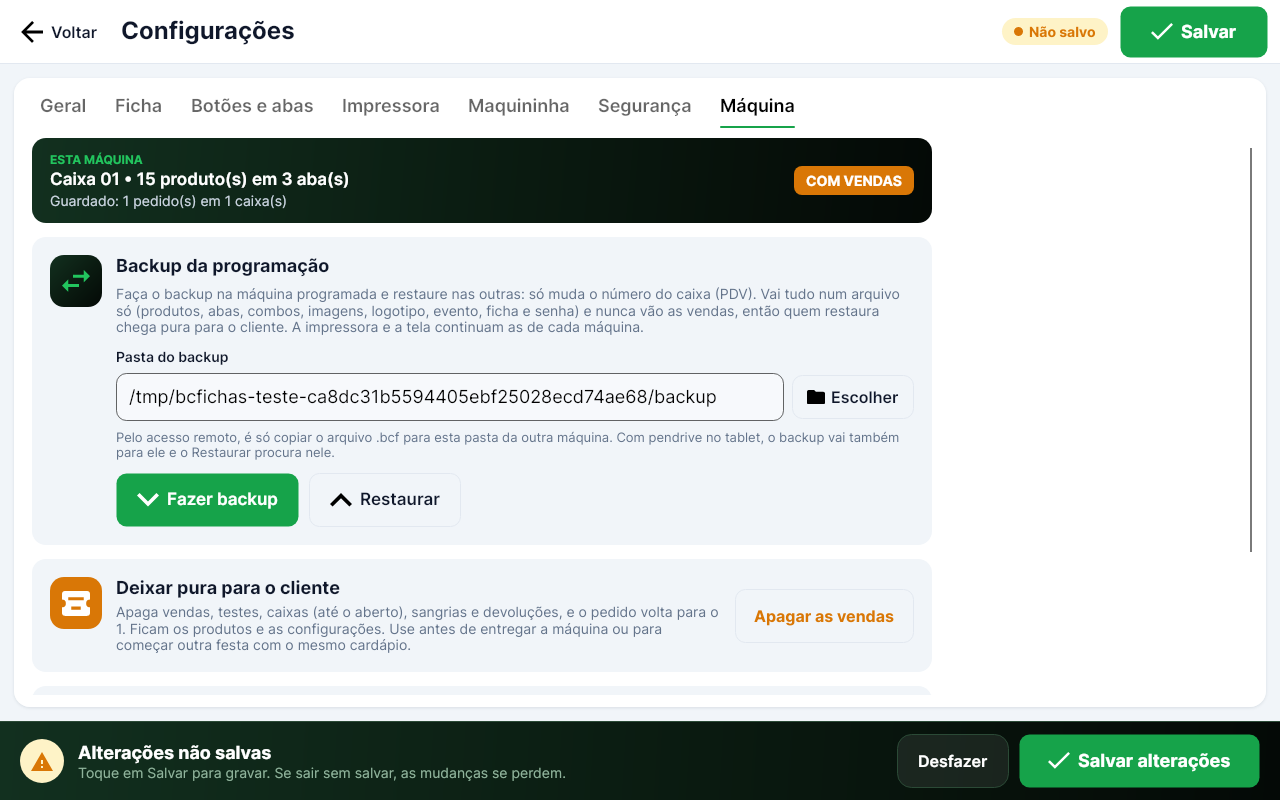
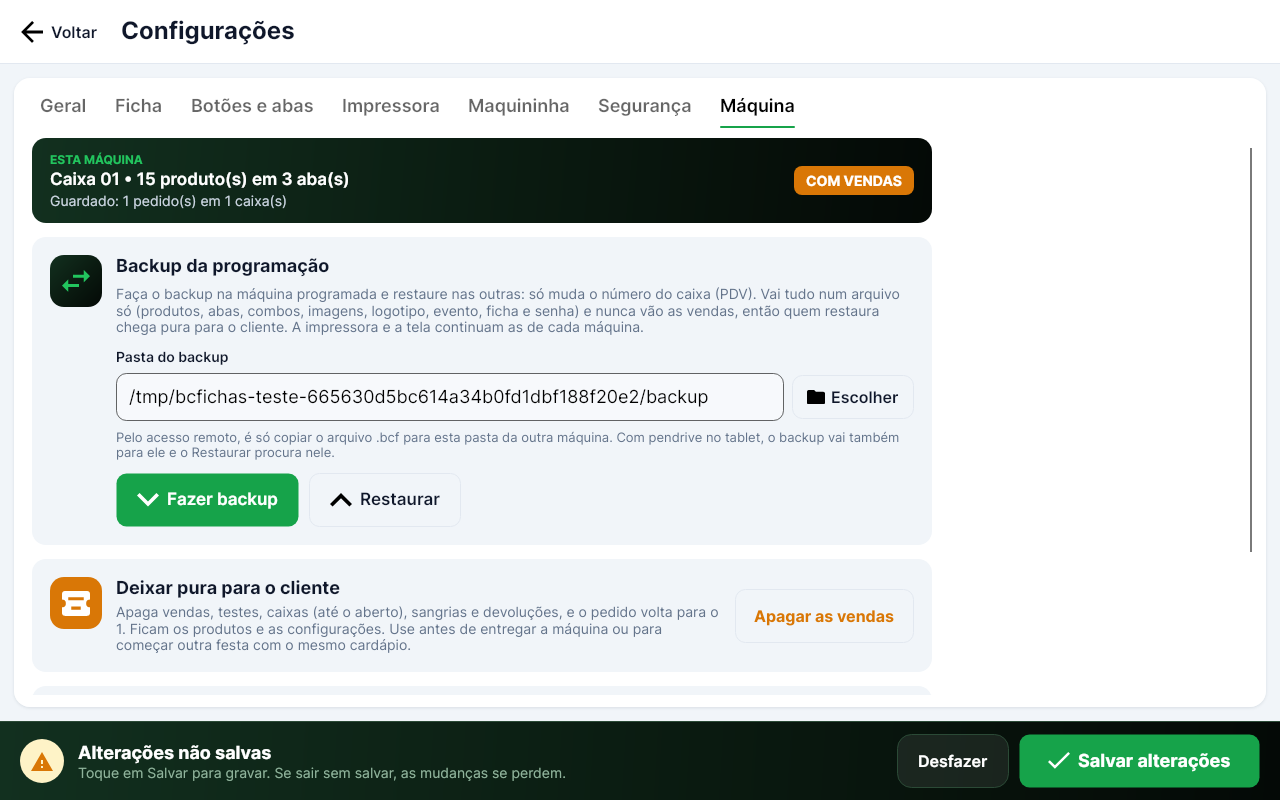
Versão 3.10.1: número do caixa com − e +, Salvar só na barra de baixo
- Configurações > Geral: o número do caixa (PDV) virou um seletor
  compacto − 01 + (tocar no número abre o teclado para digitar direto),
  com a pasta dos dados na mesma lista.
- Tira o Salvar e o aviso de "não salvo" do topo: a barra de baixo
  "Alterações não salvas" já aparece quando algo muda.
- Restaurar backup pede o número do caixa no mesmo limite (1 a 30).

Claude-Session: https://claude.ai/code/session_01PrUwZ2SHAkAtG8QPnZCrhE

Changed region(s): [[0.7812, 0.0, 1.0, 0.0938], [0.25, 0.4688, 0.5625, 0.5312]]

diff --git a/src/BCFichas.App/ViewModels/ConfiguracaoViewModel.cs b/src/BCFichas.App/ViewModels/ConfiguracaoViewModel.cs
@@ -101,7 +101,7 @@ public sealed partial class ConfiguracaoViewModel : PaginaViewModel
         new(Core.TipoImpressora.Arquivo, "Salvar em arquivo (testar sem impressora)"),
     ];
 
-    public List<int> Caixas { get; } = Enumerable.Range(1, 30).ToList();
+    public const int MaximoCaixas = 30;
     public List<int> Papeis { get; } = [80, 58];
     public List<int> Velocidades { get; } = [9600, 19200, 38400, 57600, 115200];
     public List<int> Zooms { get; } = [70, 80, 90, 100, 110, 125, 150];
@@ -123,7 +123,10 @@ public sealed partial class ConfiguracaoViewModel : PaginaViewModel
     // Geral
     [ObservableProperty] private string _nomeEvento = "";
     [ObservableProperty] private string _rodape = "";
-    [ObservableProperty] private int _numeroCaixa = 1;
+    [ObservableProperty]
+    [NotifyPropertyChangedFor(nameof(NumeroCaixaTexto), nameof(CaixaNaFicha))]
+    [NotifyCanExecuteChangedFor(nameof(CaixaAnteriorCommand), nameof(ProximoCaixaCommand))]
+    private int _numeroCaixa = 1;
     [ObservableProperty] private bool _desligarAoFechar;
     [ObservableProperty] private bool _manterTelaLigada;
     [ObservableProperty] private bool _iniciarComWindows;
@@ -562,6 +565,28 @@ public sealed partial class ConfiguracaoViewModel : PaginaViewModel
         return Core.Servicos.ProgramacaoServico.CaminhoDaPasta(texto);
     }
 
+    public string NumeroCaixaTexto => $"{NumeroCaixa:00}";
+    public string CaixaNaFicha => $"Sai na ficha e nos relatórios como CAIXA {NumeroCaixa:00}.";
+
+    private bool TemCaixaAnterior => NumeroCaixa > 1;
+    private bool TemProximoCaixa => NumeroCaixa < MaximoCaixas;
+
+    [RelayCommand(CanExecute = nameof(TemCaixaAnterior))]
+    private void CaixaAnterior() => NumeroCaixa--;
+
+    [RelayCommand(CanExecute = nameof(TemProximoCaixa))]
+    private void ProximoCaixa() => NumeroCaixa++;
+
+    /// <summary>Tocar no número: digita direto no teclado numérico (mais rápido que o + quando é o caixa 15).</summary>
+    [RelayCommand]
+    private async Task DigitarCaixa()
+    {
+        var numero = new NumeroViewModel(Principal, "Número deste caixa (PDV)",
+            "Cada máquina do evento tem um número diferente (sai na ficha e nos relatórios).", NumeroCaixa, MaximoCaixas);
+        Principal.AbrirDialogo(numero);
+        if (await numero.Resposta is { } caixa) NumeroCaixa = caixa;
+    }
+
     [RelayCommand]
     private void EscolherMaquininha(TipoMaquininha tipo) =>
         TipoMaquininha = TiposMaquininha.FirstOrDefault(t => t.Valor == tipo) ?? TipoMaquininha;
@@ -754,7 +779,8 @@ public sealed partial class ConfiguracaoViewModel : PaginaViewModel
             if (!await Principal.Confirmar("Restaurar este backup?", texto, "Restaurar", "Voltar")) return;
 
             var numero = new NumeroViewModel(Principal, "Número deste caixa (PDV)",
-                "Cada máquina do evento tem um número diferente (sai na ficha e nos relatórios).", Principal.Config.NumeroCaixa);
+                "Cada máquina do evento tem um número diferente (sai na ficha e nos relatórios).", Principal.Config.NumeroCaixa,
+                MaximoCaixas);
             Principal.AbrirDialogo(numero);
             if (await numero.Resposta is not { } caixa) return;
 

diff --git a/tests/BCFichas.Tests/Ui/TelasDaVersao310Tests.cs b/tests/BCFichas.Tests/Ui/TelasDaVersao310Tests.cs
@@ -182,6 +182,61 @@ public class TelasDaVersao310Tests
     }
 
     [AvaloniaFact]
+    public async Task Numero_do_caixa_com_menos_e_mais_e_salvar_so_na_barra_de_baixo()
+    {
+        using var t = new TelaDeTeste();
+        var tela = new ConfiguracaoViewModel(t.Principal);
+        t.Principal.Abrir(tela);
+        TelaDeTeste.Atualizar();
+        // Sem mudança, nenhum botão de salvar na tela (em cima não tem mais)
+        Assert.Empty(BotoesSalvar(t, tela));
+        Assert.Equal("01", tela.NumeroCaixaTexto);
+        Assert.False(tela.CaixaAnteriorCommand.CanExecute(null)); // não tem caixa 0
+
+        tela.ProximoCaixaCommand.Execute(null);
+        tela.ProximoCaixaCommand.Execute(null);
+        Assert.Equal(3, tela.NumeroCaixa);
+        Assert.Equal("Sai na ficha e nos relatórios como CAIXA 03.", tela.CaixaNaFicha);
+        tela.CaixaAnteriorCommand.Execute(null);
+        Assert.Equal("02", tela.NumeroCaixaTexto);
+        TelaDeTeste.Atualizar();
+        Assert.True(tela.TemAlteracoes);
+        var salvar = Assert.Single(BotoesSalvar(t, tela)); // só o da barra de baixo
+        Assert.True(salvar.TranslatePoint(new Point(0, 0), t.Janela)!.Value.Y > t.Janela.Bounds.Height / 2);
+
+        // Tocar no número abre o teclado para digitar direto
+        var digitar = tela.DigitarCaixaCommand.ExecuteAsync(null);
+        var numero = Assert.IsType<NumeroViewModel>(t.Principal.Dialogo);
+        numero.TeclaCommand.Execute("C");
+        numero.TeclaCommand.Execute("3");
+        numero.TeclaCommand.Execute("1");
+        numero.ConfirmarCommand.Execute(null);
+        Assert.Equal("Digite um número de 1 a 30", numero.Erro);
+        numero.TeclaCommand.Execute("<");
+        numero.TeclaCommand.Execute("<");
+        numero.TeclaCommand.Execute("1");
+        numero.TeclaCommand.Execute("5");
+        numero.ConfirmarCommand.Execute(null);
+        await digitar;
+        Assert.Equal(15, tela.NumeroCaixa);
+        TelaDeTeste.Atualizar();
+        t.Foto("56-config-numero-do-caixa");
+
+        salvar.Command!.Execute(null);
+        Assert.Equal(15, t.Sistema.Config.Atual.NumeroCaixa);
+        TelaDeTeste.Atualizar();
+        Assert.Empty(BotoesSalvar(t, tela));
+
+        // No último número o + para
+        tela.NumeroCaixa = ConfiguracaoViewModel.MaximoCaixas;
+        Assert.False(tela.ProximoCaixaCommand.CanExecute(null));
+    }
+
+    private static List<Avalonia.Controls.Button> BotoesSalvar(TelaDeTeste t, ConfiguracaoViewModel tela) =>
+        t.Janela.GetVisualDescendants().OfType<Avalonia.Controls.Button>()
+            .Where(b => ReferenceEquals(b.Command, tela.SalvarCommand) && b.IsEffectivelyVisible).ToList();
+
+    [AvaloniaFact]
     public void Dinheiro_tem_botao_limpar()
     {
         using var t = new TelaDeTeste();

diff --git a/README.md b/README.md
@@ -22,7 +22,7 @@ na **Elgin i9** em papel de 80 mm.
 | **Sangria / Suprimento** | Tira ou põe dinheiro no caixa, com comprovante impresso; mostra em destaque quanto deve haver na gaveta e quanto fica depois. |
 | **Relatórios** | Caixa atual, caixas anteriores e sangrias: totais por forma de pagamento, fichas devolvidas, venda líquida e produtos vendidos. |
 | **Abrir / Fechar caixa** | Só o troco inicial, digitado ou somado com os **valores rápidos** (+R$ 1, 5, 10, 20, 50, 100); cada caixa é identificado pelo número (Caixa 01, 02…) e imprime o comprovante de **abertura de caixa** (troco, data e hora); no fechamento confere o dinheiro da gaveta (falta/sobra), imprime o relatório e, se configurado, desliga o tablet na hora. |
-| **Configurações** | Tudo em blocos com ícone e explicação. Enquanto houver mudança não salva aparece a barra **Alterações não salvas** com o botão Salvar, e ao tocar em Voltar o programa pergunta se quer salvar. Nome do evento, rodapé (opcional; embaixo dele toda ficha traz o telefone da BC Fichas), modelo da ficha (7 modelos com prévia), borda, fonte, logotipo, código de barras, grade de botões, pasta das fotos, impressora (com ajuste da posição no papel), corte da guilhotina, maquininha, senha master e telas travadas. |
+| **Configurações** | Tudo em blocos com ícone e explicação. Enquanto houver mudança não salva aparece embaixo a barra **Alterações não salvas** com o botão Salvar (o único da tela), e ao tocar em Voltar o programa pergunta se quer salvar. Nome do evento, rodapé (opcional; embaixo dele toda ficha traz o telefone da BC Fichas), número do caixa (− e +, ou toque no número para digitar), modelo da ficha (7 modelos com prévia), borda, fonte, logotipo, código de barras, grade de botões, pasta das fotos, impressora (com ajuste da posição no papel), corte da guilhotina, maquininha, senha master e telas travadas. |
 | **Máquina** | Backup da programação (pasta padrão e pendrive) e restaurar em outra máquina escolhendo o número do caixa; deixa a máquina pura para o cliente ou zera a programação para um novo evento. Veja "Programar várias máquinas". |
 
 Também tem teclado na tela (para tablet sem teclado físico), ajuste de tamanho da tela e modo tela cheia.
